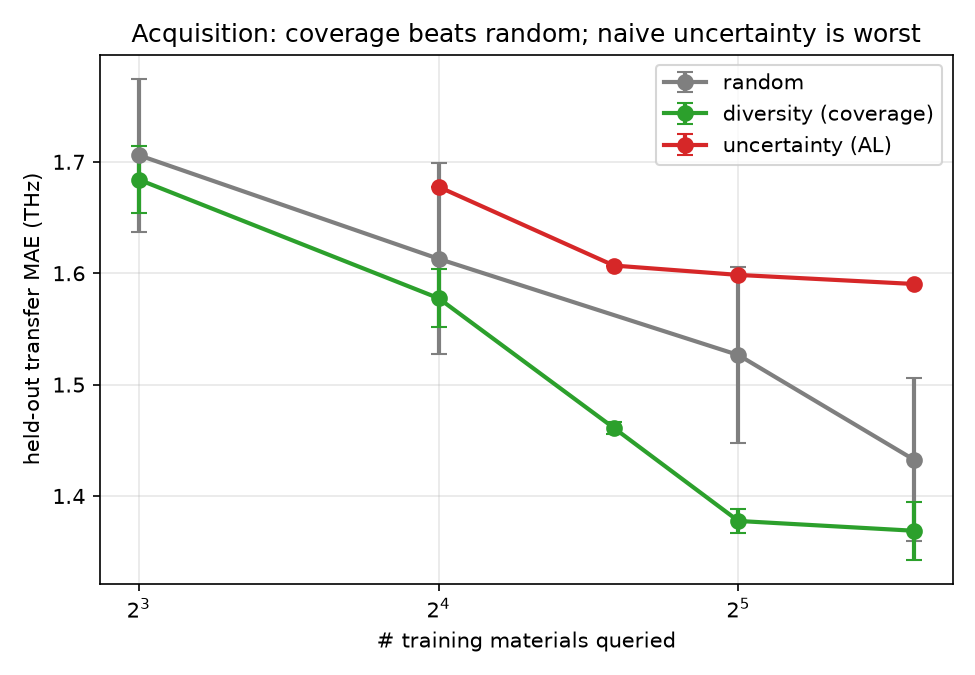
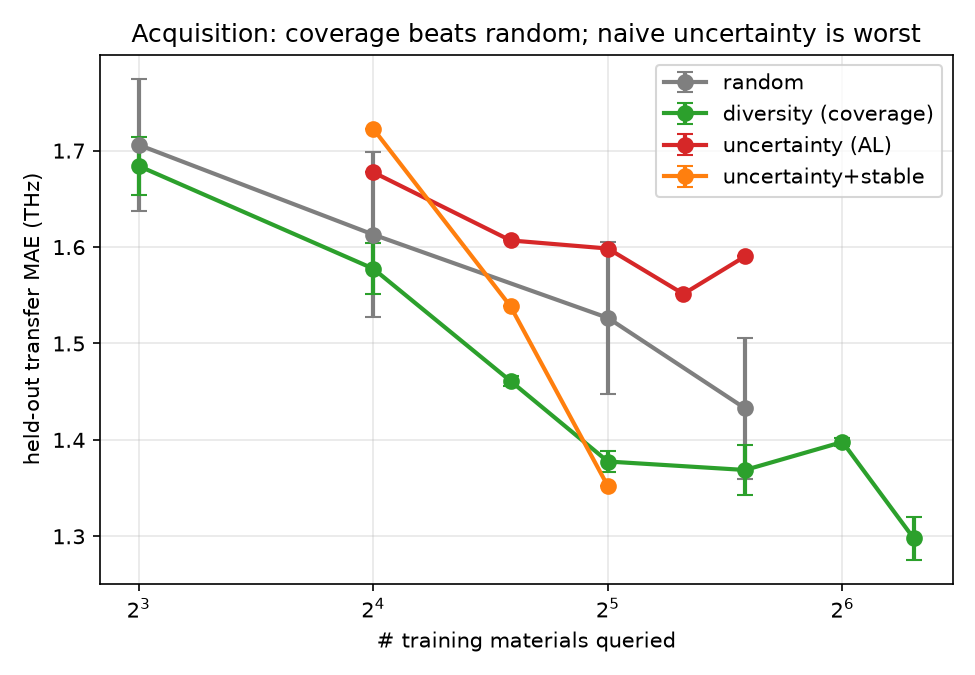
Four-way acquisition figure: random/coverage/uncertainty/uncertainty+stable; coverage wins decisively

diff --git a/scripts/plot_campaign.py b/scripts/plot_campaign.py
@@ -173,11 +173,12 @@ def amean(jobs):
     return (np.mean(v), np.std(v)) if v else None
 
 
-NS = [8, 16, 24, 32, 48]
+NS = [8, 16, 24, 32, 40, 48, 64, 79]
 arms = {
     "random": ("tab:gray", lambda n: amean([f"rnd{d}_N{n}_s1" for d in "ABCDEF"])),
     "diversity (coverage)": ("tab:green", lambda n: amean([f"gdiv_N{n}_s{s}" for s in (1, 2)])),
     "uncertainty (AL)": ("tab:red", lambda n: amean([f"al_unc_N{n}"])),
+    "uncertainty+stable": ("tab:orange", lambda n: amean([f"al_uncstab_N{n}"])),
 }
 fig, ax = plt.subplots(figsize=(6.5, 4.5))
 any_arm = False
